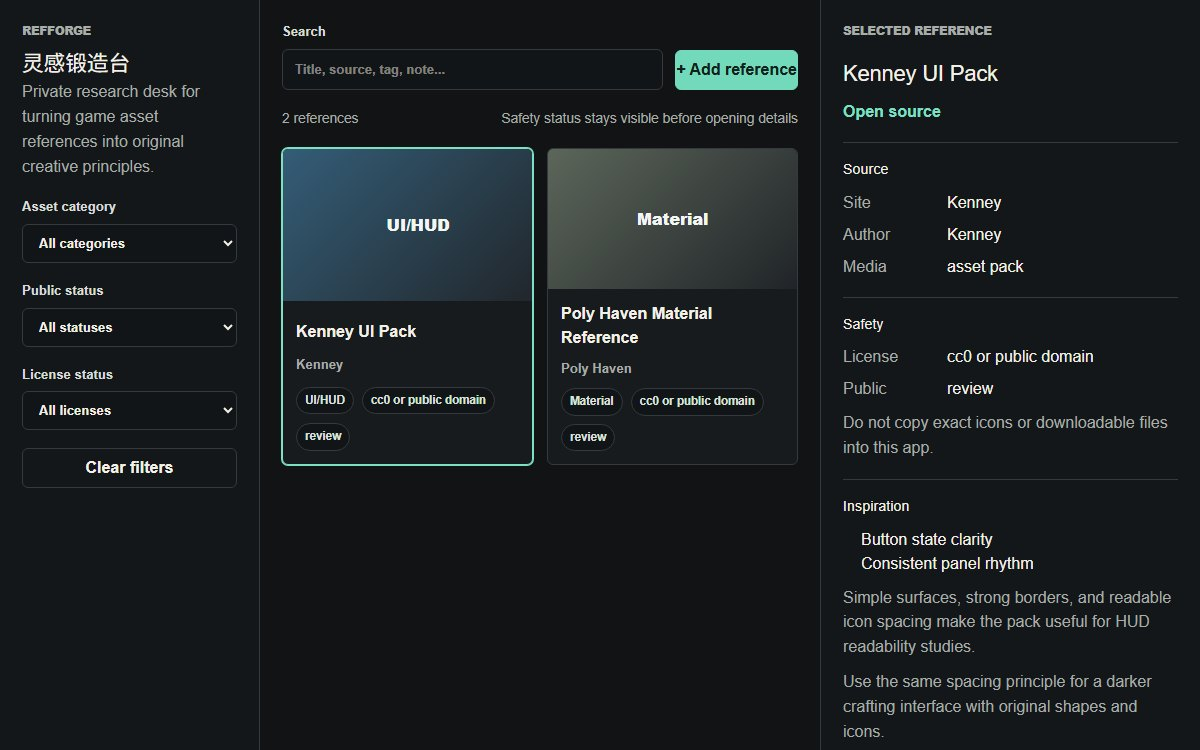
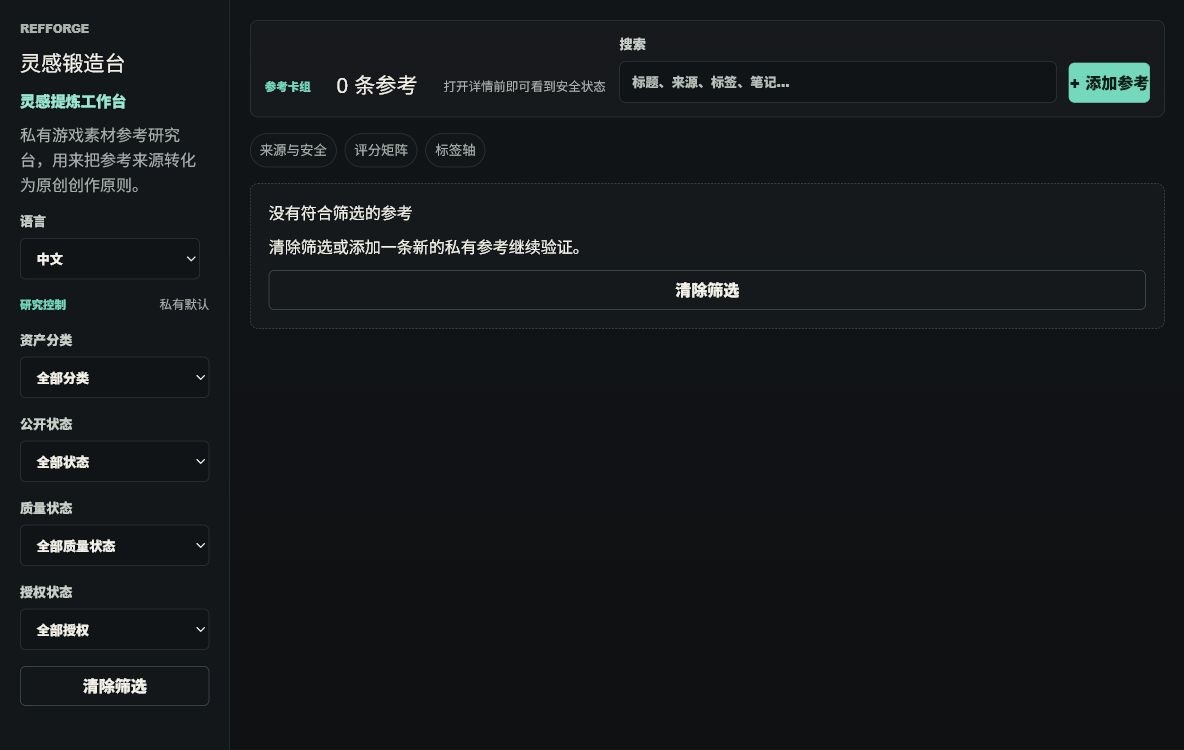
fix: 修正第七轮部署预览 / fix round 7 deployment preview

diff --git a/app/globals.css b/app/globals.css
@@ -645,7 +645,7 @@ label {
   }
 }
 
-@media (max-width: 1180px) {
+@media (max-width: 1280px) {
   .workspace {
     grid-template-columns: 230px minmax(0, 1fr);
   }

diff --git a/docs/progress/2026-06-25.md b/docs/progress/2026-06-25.md
@@ -1,0 +1,48 @@
+# 2026-06-25 开发日志
+
+## 摘要
+
+按 Superpowers 顺序开始 Round 7 发布收尾：先验证已合并的 `main`，刷新 Sites canonical screenshot，并修正 1200px 预览下工具条被右侧详情栏裁切的问题。
+
+## 已完成
+
+- 在 `main` 上重新运行 Round 7 发布前验证。
+- 启动本地开发服务并使用 1200x750 视口捕获新版工作台截图。
+- 发现并修正 1200px 宽度下顶部工具条按钮被裁切的问题。
+- 将详情栏下移断点从 `1180px` 调整为 `1280px`，让 1200px 预览采用更稳的两栏布局。
+- 刷新 `public/screenshot.jpeg`。
+
+## 原因
+
+Round 7 已合并并同步到 GitHub，但尚未部署到 Sites。部署前需要刷新站点预览图，并确保常见桌面宽度下没有明显排版裁切。
+
+## 影响
+
+- 修改 `app/globals.css` 的响应式断点。
+- 更新 `public/screenshot.jpeg`。
+- 未修改 API、D1 schema、数据迁移或产品数据模型。
+
+## 验证
+
+- `npm test`：通过，6 个文件 / 29 个测试。
+- `npm run typecheck`：通过。
+- `npm run lint`：通过。
+- `npm run build`：通过。
+- 本地浏览器 smoke：
+  - `灵感锻造台` 可见。
+  - `灵感提炼工作台` 可见。
+  - `+ 添加参考` 按钮完整显示。
+  - 1200px 视口未发现横向溢出。
+- `public/screenshot.jpeg` 已重新生成并人工视觉检查。
+
+## 风险 / 遗留问题
+
+- Sites 版本尚未保存和部署。
+- 生产站 smoke 仍需要在部署后执行。
+- `codex/round-6-production-e2e-qa` 仍为独立待决分支。
+
+## 下一步
+
+- 提交并推送截图/断点/留痕改动。
+- 按 Sites 流程保存新版本并部署生产站。
+- 部署后做生产 smoke。

diff --git a/docs/progress/timeline.md b/docs/progress/timeline.md
@@ -805,3 +805,23 @@
 - Remaining branch state:
   - `main` contains Round 7 workspace UI.
   - `codex/round-6-production-e2e-qa` remains open as the only active non-main feature branch.
+
+## 2026-06-25
+
+### 2026-06-25
+
+- Branch: `main`
+- Mode: deployment preparation
+- Action: prepared Round 7 for Sites deployment.
+- Changes:
+  - Refreshed canonical preview image at `public/screenshot.jpeg`.
+  - Fixed 1200px workspace preview clipping by changing the detail-panel responsive breakpoint from `1180px` to `1280px`.
+- Validation:
+  - `npm test`: passed, 6 files / 29 tests.
+  - `npm run typecheck`: passed.
+  - `npm run lint`: passed.
+  - `npm run build`: passed.
+  - Local browser smoke confirmed `灵感锻造台`, `灵感提炼工作台`, complete `+ 添加参考` button, and no horizontal overflow at 1200px.
+- Next action:
+  - Commit and push the deployment-prep source.
+  - Save and deploy a new Sites version.

diff --git a/docs/progress/status.md b/docs/progress/status.md
@@ -1,10 +1,10 @@
 # Project Status
 
-Updated: 2026-06-21
+Updated: 2026-06-25
 
 ## Current Stage
 
-`Round 7 workspace UI merged and synced`
+`Round 7 deployment preparation`
 
 The repository has been initialized as `game-ref-forge`, connected to GitHub, completed the first Sites foundation deployment, merged the second-round live usability validation branch back to `main`, merged the third-round editing-experience branch into `main`, and deployed the fourth-round production interaction hardening build as Sites version 5.
 
@@ -116,6 +116,9 @@ It helps collect source links from game asset and game design sites, normalize t
 - On 2026-06-22, `codex/round-7-workspace-ui-design` was fast-forward merged into local `main`, and merged-main validation passed: `npm test`, `npm run typecheck`, `npm run lint`, and `npm run build`.
 - On 2026-06-22, merged `main` was pushed to GitHub through commit `b2feaff`.
 - On 2026-06-22, local and remote `codex/round-7-workspace-ui-design` branches were deleted after the successful `main` push.
+- On 2026-06-25, Round 7 deployment preparation started on `main`.
+- On 2026-06-25, `public/screenshot.jpeg` was refreshed from the Round 7 workspace UI.
+- On 2026-06-25, the 1200px preview layout was fixed by moving the detail-panel breakpoint from `1180px` to `1280px`; validation passed with `npm test`, `npm run typecheck`, `npm run lint`, and `npm run build`.
 
 ## Active Decisions
 
@@ -149,7 +152,8 @@ It helps collect source links from game asset and game design sites, normalize t
 - The in-app browser automation channel still intermittently times out during production actions, but fourth-round production CRUD was completed with fresh state checks after each timeout.
 - Fifth-round production read-only UI checks can now confirm the deployed quality fields, but write-path CRUD automation is still blocked at the add-reference click.
 - Round 7 is merged into `main` and its local/remote feature branches have been cleaned up.
+- Round 7 has not yet been deployed to Sites after the screenshot/layout fix.
 
 ## Next Suggested Step
 
-Decide whether to keep, close, or later merge `codex/round-6-production-e2e-qa`; deploy Round 7 only after a separate Sites save/deploy decision.
+Save and deploy a new Sites version for Round 7, then run production smoke. After that, close or archive `codex/round-6-production-e2e-qa`.